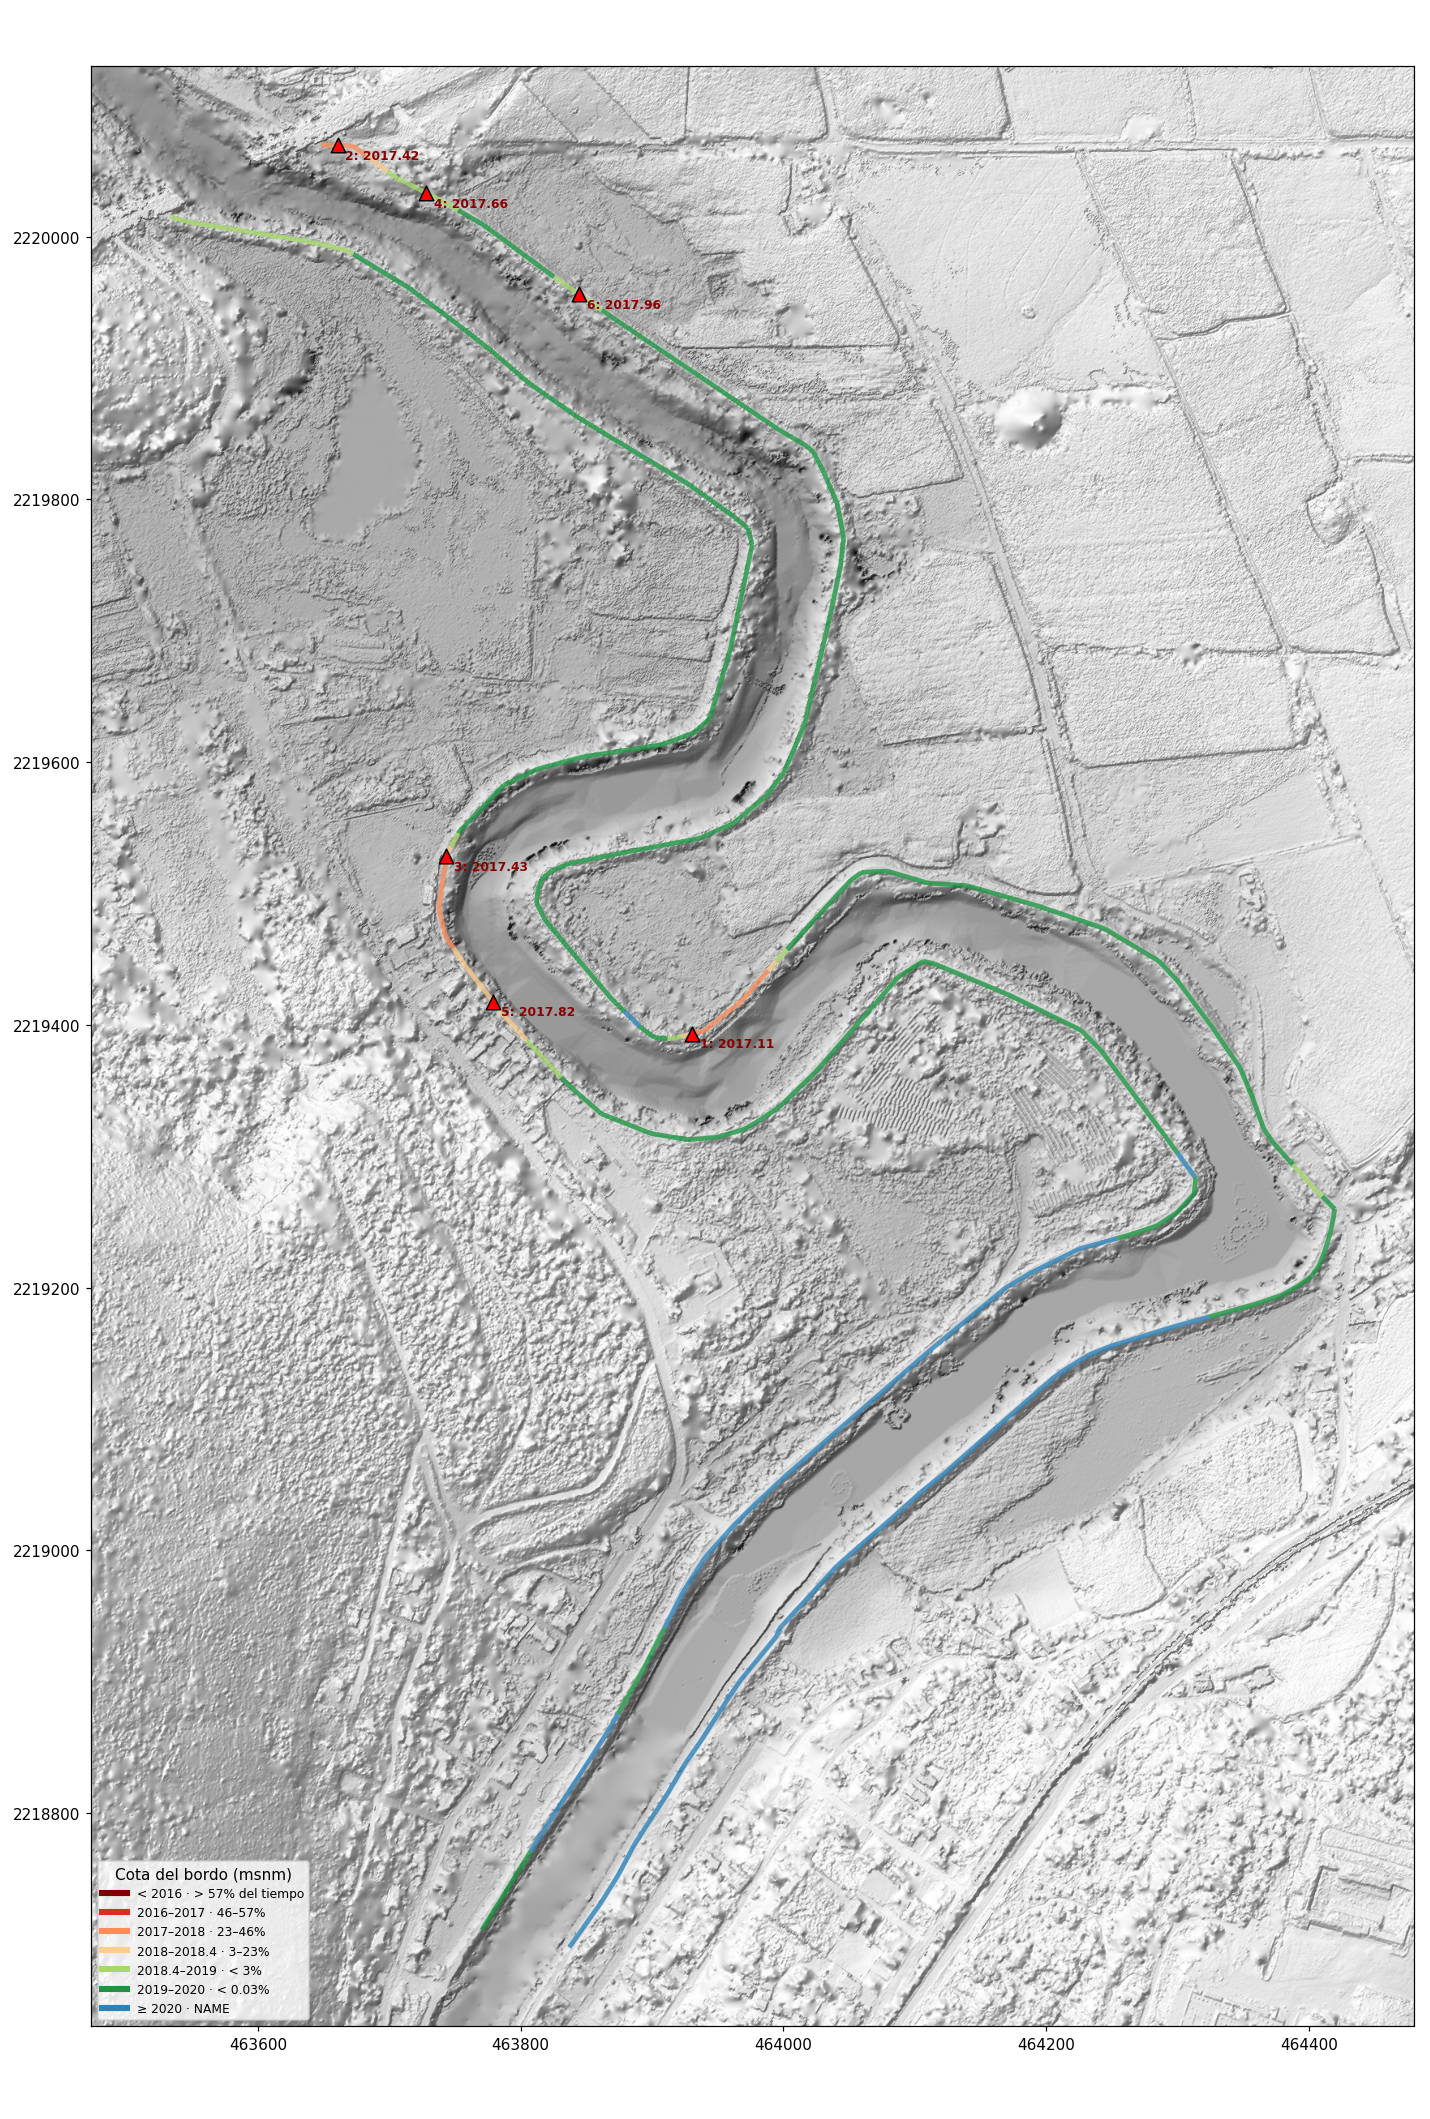
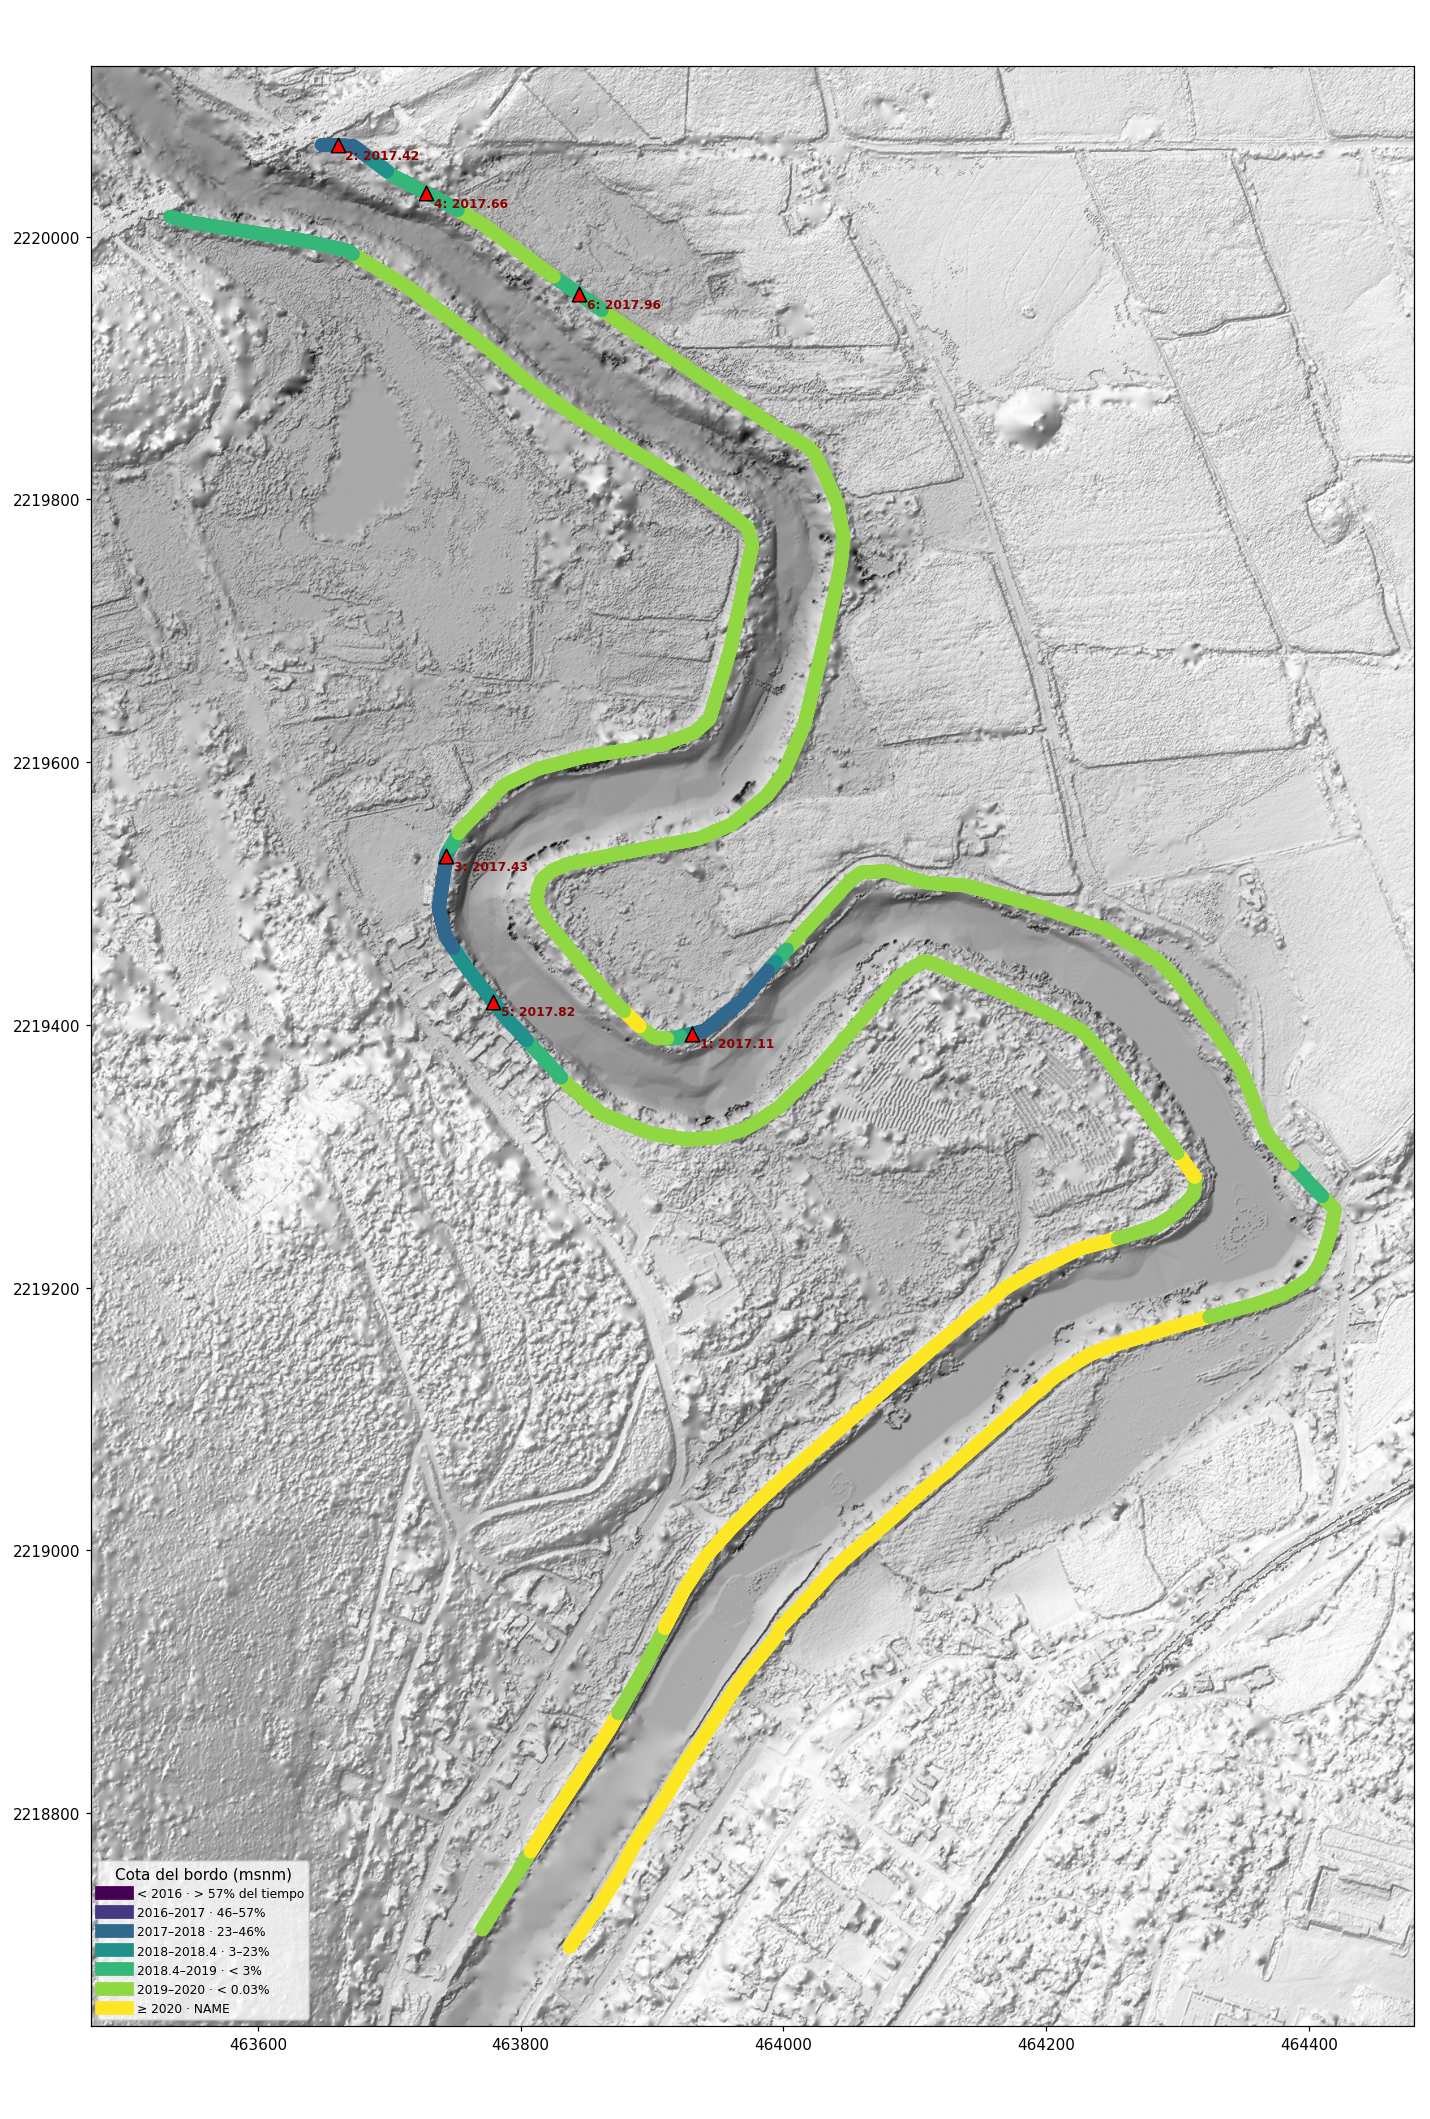
Mapa: líneas gruesas con viridis (amarillo = 2020 o más)

diff --git a/mapa.py b/mapa.py
@@ -3,10 +3,13 @@ import numpy as np, geopandas as gpd, rasterio
 import matplotlib
 matplotlib.use("Agg")
 import matplotlib.pyplot as plt
-from matplotlib.colors import LightSource
+from matplotlib.colors import LightSource, to_hex
 from matplotlib.lines import Line2D
 from rasterio.windows import from_bounds
 from bordo_analisis import CLASES
+
+VIRIDIS = [to_hex(c) for c in plt.cm.viridis(np.linspace(0, 1, len(CLASES)))]  # amarillo = ≥ 2020
+GROSOR = 9
 
 
 def main(mdt, gpkg, png):
@@ -27,14 +30,14 @@ def main(mdt, gpkg, png):
     fig, ax = plt.subplots(figsize=(13, max(6, min(20, alto))))
     ax.imshow(hs, cmap="gray", extent=ext)
     ax.imshow(np.ma.masked_invalid(z), cmap="Greys_r", vmin=2010, vmax=2024, alpha=0.35, extent=ext)
-    colores = {c[2]: c[3] for c in CLASES}
-    seg.plot(ax=ax, color=[colores[c] for c in seg.clase], linewidth=3)
+    colores = {c[2]: v for c, v in zip(CLASES, VIRIDIS)}
+    seg.plot(ax=ax, color=[colores[c] for c in seg.clase], linewidth=GROSOR, capstyle="round")
     criticos = bajos[bajos.z_min < 2018.0]
     ax.scatter(criticos.geometry.x, criticos.geometry.y, marker="^", s=90, c="red", edgecolors="k", zorder=5)
     for _, r in criticos.iterrows():
         ax.annotate(f"{r.id}: {r.z_min:.2f}", (r.geometry.x, r.geometry.y), xytext=(5, -9),
                     textcoords="offset points", fontsize=8, color="darkred", weight="bold")
-    ax.legend([Line2D([0], [0], color=c[3], lw=4) for c in CLASES], [c[2] for c in CLASES],
+    ax.legend([Line2D([0], [0], color=v, lw=GROSOR) for v in VIRIDIS], [c[2] for c in CLASES],
               loc="lower left", fontsize=8, title="Cota del bordo (msnm)")
     ax.set_xlim(bx[0], bx[2]); ax.set_ylim(bx[1], bx[3])
     ax.ticklabel_format(useOffset=False, style="plain")
